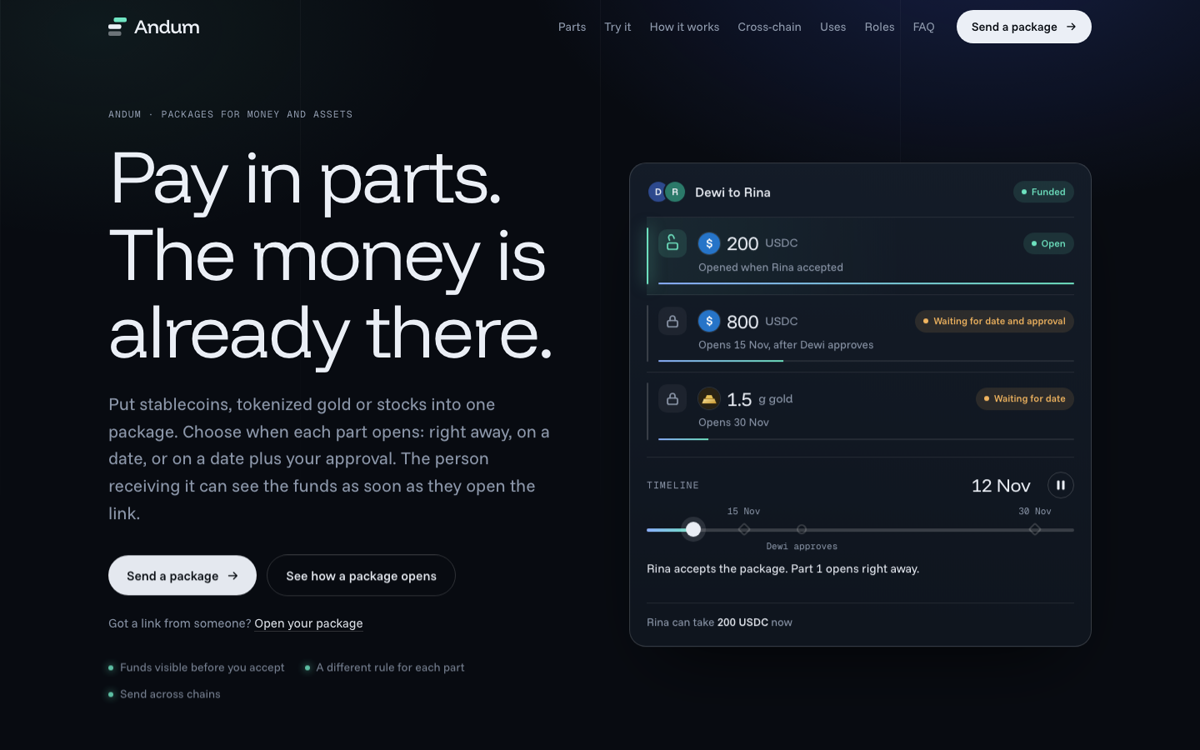
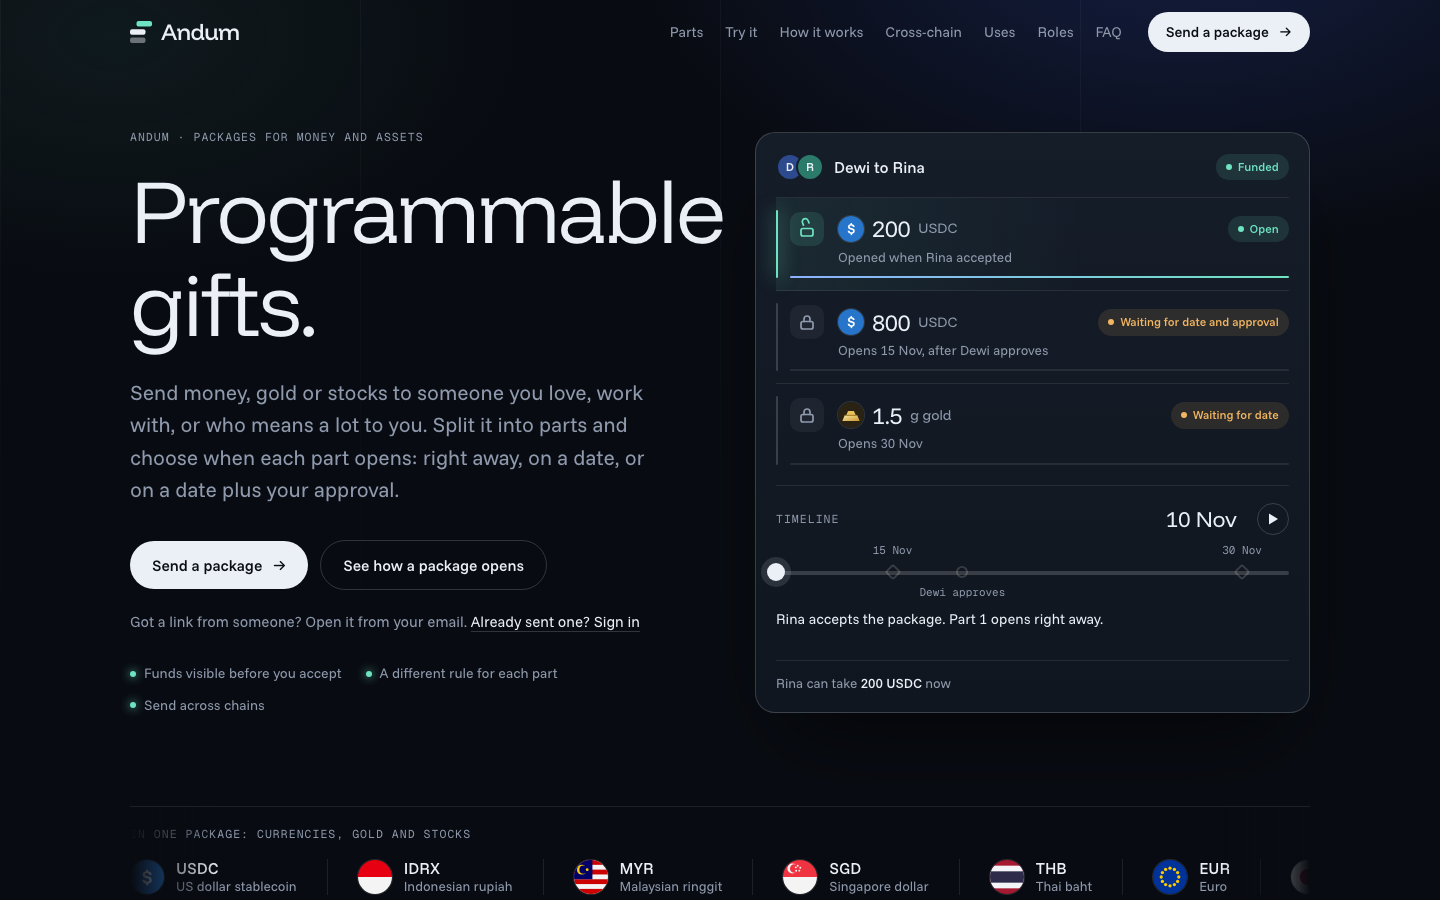
docs(readme): new tagline and landing screenshot with the 'Programmable' headline

diff --git a/README.md b/README.md
@@ -1,6 +1,6 @@
 # Andum
 
-**Send money and assets in one package.** Each part of a package opens on its own rule: right away, on a date, or on a date plus the approval of 1 to 5 people. The recipient holds the package as a non-transferable NFT pass, can see the funds before accepting, and nobody pays gas.
+**Programmable gifts, payments, rewards and surprises.** Send money, gold or stocks to someone who matters to you, in one package. Each part of a package opens on its own rule: right away, on a date, or on a date plus the approval of 1 to 5 people. The recipient holds the package as a non-transferable NFT pass, can see the funds before accepting, and nobody pays gas.
 
 ![Landing page](docs/media/web-landing-top.png)
 
